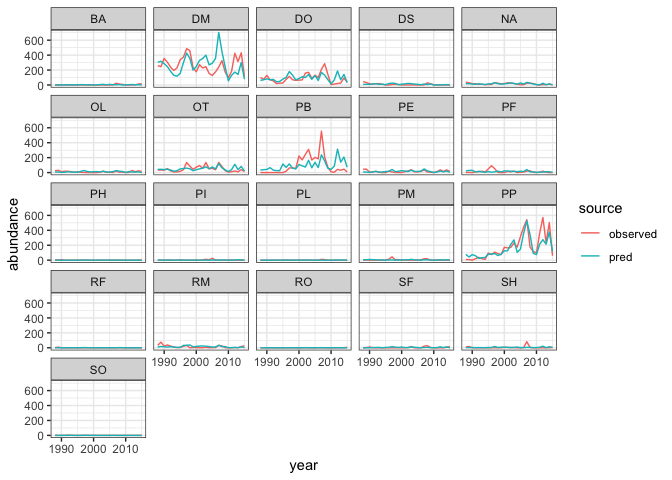
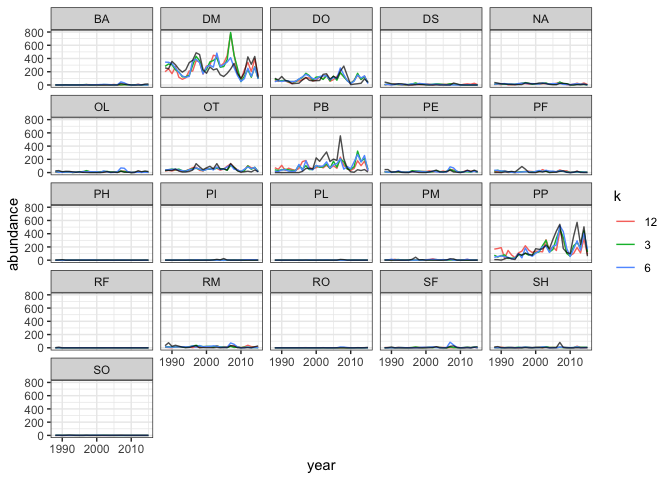
abundance comparisons

diff --git a/analysis/reports/crossval-draft.md b/analysis/reports/crossval-draft.md
@@ -53,9 +53,20 @@ best_performers_plot
 ![](crossval-draft_files/figure-markdown_github/eval%20performance%20over%20all%20subgroups-2.png)
 
 ``` r
+best_performers <- best_performers <- avg_performance %>%
+    group_by(k) %>%
+    arrange(desc(mean_testll)) %>%
+    mutate(rank = row_number()) %>%
+    filter(rank == 1) %>%
+    ungroup()
+
+predictions <- list() 
+for(j in c(3, 6, 12)) {
+    best_performer <- filter(best_performers, k == j)
+    
 best_model_names <- model_info %>%
     distinct() %>%
-    filter(ts_model_name == best_performers$ts_model_name[1])
+    filter(ts_model_name == best_performer$ts_model_name[1])
 
 best_ldas <- list() 
 best_ts_models <- list()
@@ -75,24 +86,28 @@ for(i in 1:nrow(best_model_names)) {
     names(predicted_corpuses)[i] <- best_ldas[[i]]$data$test_covariates$year
 }
 
-predictions <- bind_rows(predicted_corpuses, .id = "year") %>%
+predictions[[j]] <- bind_rows(predicted_corpuses, .id = "year") %>%
     select(-timestep) %>%
     mutate(year = as.integer(year)) %>%
     arrange(year)
-# 
-# observed <- predictions %>%
-#     filter(source == "observed")
-# predicted <- predictions %>%
-#     filter(source == "pred")
-# 
-# rowSums(portal_ann_data$abundance) == rowSums(predicted[ , 3:ncol(predicted)])
+
+}
+
+predictions <- predictions[c(3,6,12)]
+
+names(predictions) <- c(3,6,12)
+
+predictions <- bind_rows(predictions, .id = "k")
+
+predictions$k <-as.factor(predictions$k)
 ```
 
 ### Species absolute abundances
 
 ``` r
-abs_plot <- ggplot(data = predictions, aes(x = year, y = abundance, color = source)) +
+abs_plot <- ggplot(data = filter(predictions, source == "pred"), aes(x = year, y = abundance, color = k)) +
     geom_line() +
+    geom_line(data = filter(predictions, source == "observed"), aes(x = year, y = abundance), color = "black", alpha = .7) +
     facet_wrap(species ~ .) +
     theme_bw()
 
@@ -103,13 +118,14 @@ abs_plot
 
 ``` r
 rel_predictions <- predictions %>%
-    group_by(year, source) %>%
+    group_by(year, source, k) %>%
     mutate(total_annual_abund = sum(abundance)) %>%
     ungroup() %>%
     mutate(rel_abundance = abundance / total_annual_abund)
 
-rel_plot <- ggplot(data = rel_predictions, aes(x = year, y = rel_abundance, color = source)) +
+rel_plot <- ggplot(data = filter(rel_predictions, source == "pred"), aes(x = year, y = rel_abundance, color = k)) +
     geom_line() +
+    geom_line(data =filter(rel_predictions, source == "observed"), color = "black", alpha = .7) +
     facet_wrap(species ~ .) +
     ylim(0, 1) +
     theme_bw()
@@ -121,12 +137,13 @@ rel_plot
 
 ``` r
 obspred_dat <- rel_predictions %>%
-    select(year, source, species, rel_abundance) %>%
-    tidyr::spread(key = "source", value = "rel_abundance")
+    select(year, k, source, species, rel_abundance) %>%
+    tidyr::spread(key = "source", value = "rel_abundance") %>%
+    mutate(k = as.factor(k))
 
 obspred_plot <- ggplot(data = obspred_dat, aes(x = observed, y = pred)) +
     geom_point() +
-    facet_wrap(species ~ ., ncol = 4) +
+    facet_grid(rows = vars(species), cols = vars(k)) +
     theme_bw() +
     ylim(0, 1) +
     xlim(0, 1) + 
